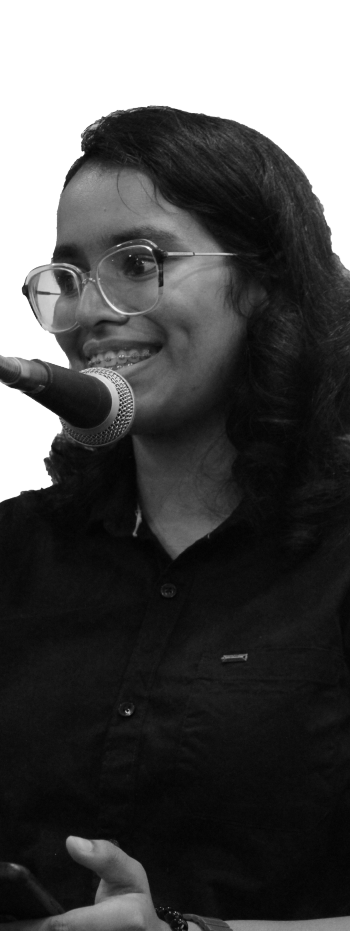
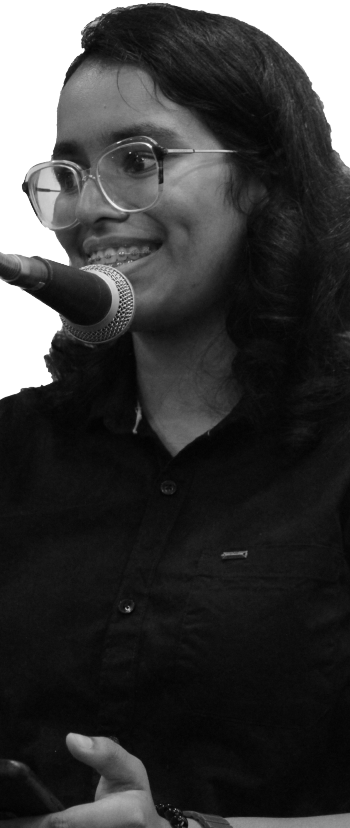
Exe4

diff --git a/src/Pages/Execom/ExecomFull.jsx b/src/Pages/Execom/ExecomFull.jsx
@@ -8,61 +8,193 @@ const ExecomFull = () => {
             name: 'Hanna Elza John',
             email: 'hanna@gmail.com',
             role: 'Chair',
+            image: 'src/assets/execom/hanna.png'
+        },
+        {
+            name: 'Hanna Elza John',
+            email: 'hanna@gmail.com',
+            role: 'Chair',
+            image: 'src/assets/execom/pranav.png'
+        },
+        {
+            name: 'Hanna Elza John',
+            email: 'hanna@gmail.com',
+            role: 'Chair',
+            image: 'src/assets/execom/amrutha.png'
+        },
+        {
+            name: 'Hanna Elza John',
+            email: 'hanna@gmail.com',
+            role: 'Chair',
             image: 'src/assets/execom/abhinav.png'
         },
         {
             name: 'Hanna Elza John',
             email: 'hanna@gmail.com',
             role: 'Chair',
-            image: 'src/assets/execom/hanna.png'
+            image: 'src/assets/execom/anamika.png'
         },
         {
             name: 'Hanna Elza John',
             email: 'hanna@gmail.com',
             role: 'Chair',
-            image: 'src/assets/execom/hanna.png'
+            image: 'src/assets/execom/bifin.png'
         },
         {
             name: 'Hanna Elza John',
             email: 'hanna@gmail.com',
             role: 'Chair',
-            image: 'src/assets/execom/hanna.png'
+            image: 'src/assets/execom/chacko.png'
         },
         {
             name: 'Hanna Elza John',
             email: 'hanna@gmail.com',
             role: 'Chair',
-            image: 'src/assets/execom/hanna.png'
+            image: 'src/assets/execom/anand.png'
         },
         {
             name: 'Hanna Elza John',
             email: 'hanna@gmail.com',
             role: 'Chair',
-            image: 'src/assets/execom/hanna.png'
+            image: 'src/assets/execom/dwarakesh.png'
         },
         {
             name: 'Hanna Elza John',
             email: 'hanna@gmail.com',
             role: 'Chair',
-            image: 'src/assets/execom/hanna.png'
+            image: 'src/assets/execom/milan.png'
         },
         {
             name: 'Hanna Elza John',
             email: 'hanna@gmail.com',
             role: 'Chair',
-            image: 'src/assets/execom/hanna.png'
+            image: 'src/assets/execom/kripa.png'
         },
         {
             name: 'Hanna Elza John',
             email: 'hanna@gmail.com',
             role: 'Chair',
-            image: 'src/assets/execom/hanna.png'
+            image: 'src/assets/execom/hari.png'
         },
         {
             name: 'Hanna Elza John',
             email: 'hanna@gmail.com',
             role: 'Chair',
-            image: 'src/assets/execom/hanna.png'
+            image: 'src/assets/execom/rohith.png'
+        },
+        {
+            name: 'Hanna Elza John',
+            email: 'hanna@gmail.com',
+            role: 'Chair',
+            image: 'src/assets/execom/noyal.png'
+        },
+        {
+            name: 'Hanna Elza John',
+            email: 'hanna@gmail.com',
+            role: 'Chair',
+            image: 'src/assets/execom/colin.png'
+        },
+        {
+            name: 'Hanna Elza John',
+            email: 'hanna@gmail.com',
+            role: 'Chair',
+            image: 'src/assets/execom/ronal.png'
+        },
+        {
+            name: 'Hanna Elza John',
+            email: 'hanna@gmail.com',
+            role: 'Chair',
+            image: 'src/assets/execom/slida.png'
+        },
+        {
+            name: 'Hanna Elza John',
+            email: 'hanna@gmail.com',
+            role: 'Chair',
+            image: 'src/assets/execom/shraddha.png'
+        },
+        {
+            name: 'Hanna Elza John',
+            email: 'hanna@gmail.com',
+            role: 'Chair',
+            image: 'src/assets/execom/mathew.png'
+        },
+        {
+            name: 'Hanna Elza John',
+            email: 'hanna@gmail.com',
+            role: 'Chair',
+            image: 'src/assets/execom/neha.png'
+        },
+        {
+            name: 'Hanna Elza John',
+            email: 'hanna@gmail.com',
+            role: 'Chair',
+            image: 'src/assets/execom/akhil.png'
+        },
+        {
+            name: 'Hanna Elza John',
+            email: 'hanna@gmail.com',
+            role: 'Chair',
+            image: 'src/assets/execom/jes.png'
+        },
+        {
+            name: 'Hanna Elza John',
+            email: 'hanna@gmail.com',
+            role: 'Chair',
+            image: 'src/assets/execom/amritha.png'
+        },
+        {
+            name: 'Hanna Elza John',
+            email: 'hanna@gmail.com',
+            role: 'Chair',
+            image: 'src/assets/execom/ameena.png'
+        },
+        {
+            name: 'Hanna Elza John',
+            email: 'hanna@gmail.com',
+            role: 'Chair',
+            image: 'src/assets/execom/anu.png'
+        },
+        {
+            name: 'Hanna Elza John',
+            email: 'hanna@gmail.com',
+            role: 'Chair',
+            image: 'src/assets/execom/jyothika.png'
+        },
+        {
+            name: 'Hanna Elza John',
+            email: 'hanna@gmail.com',
+            role: 'Chair',
+            image: 'src/assets/execom/oliviya.png'
+        },
+        {
+            name: 'Hanna Elza John',
+            email: 'hanna@gmail.com',
+            role: 'Chair',
+            image: 'src/assets/execom/naveen.png'
+        },
+        {
+            name: 'Hanna Elza John',
+            email: 'hanna@gmail.com',
+            role: 'Chair',
+            image: 'src/assets/execom/nandhana mj.png'
+        },
+        {
+            name: 'Hanna Elza John',
+            email: 'hanna@gmail.com',
+            role: 'Chair',
+            image: 'src/assets/execom/nandana jolly.png'
+        },
+        {
+            name: 'Hanna Elza John',
+            email: 'hanna@gmail.com',
+            role: 'Chair',
+            image: 'src/assets/execom/siyadh.png'
+        },
+        {
+            name: 'Hanna Elza John',
+            email: 'hanna@gmail.com',
+            role: 'Chair',
+            image: 'src/assets/execom/sian.png'
         },
     ];
 

diff --git a/src/Pages/Execom/Execom.css b/src/Pages/Execom/Execom.css
@@ -69,7 +69,7 @@
     top: 0;
     left: 0;
     width: 100%;
-    height: 180%;
+    height: 200%;
     object-fit: cover;
 }
 
